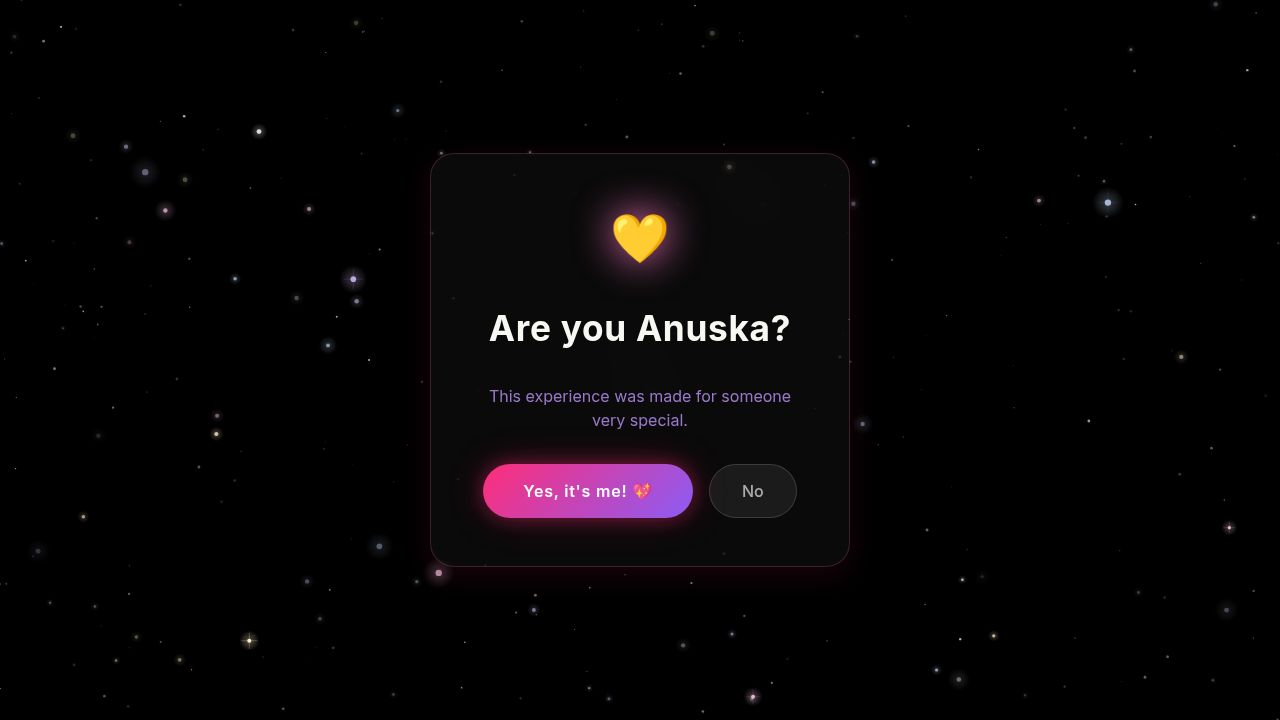
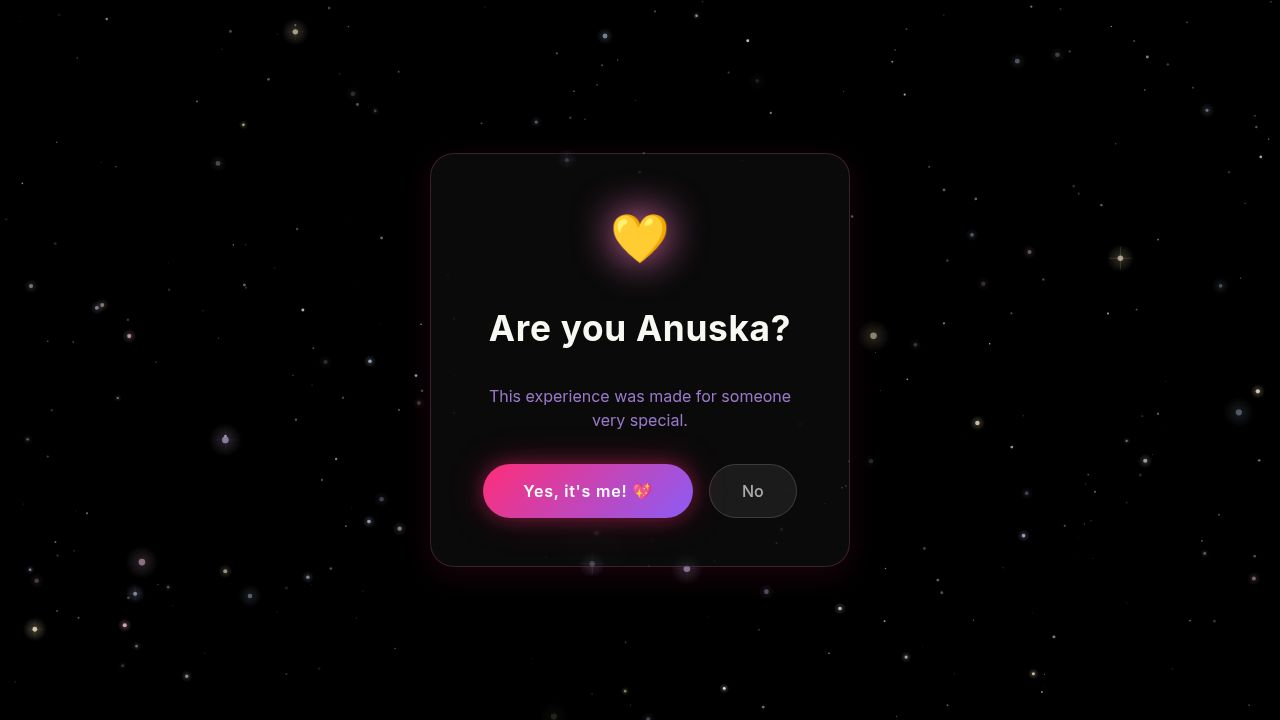
Make confetti effects blast smoothly across the entire page
Replace CSS-based falling confetti with a canvas particle system for a smooth, full-page blast effect.

Replit-Commit-Author: Agent
Replit-Commit-Session-Id: fbf05742-2e0c-4fc2-ba79-36fc6ed894ff
Replit-Commit-Checkpoint-Type: full_checkpoint
Replit-Commit-Event-Id: efaecd7e-2f0a-407e-aad8-4535b4aa56f5
Replit-Commit-Screenshot-Url: https://storage.googleapis.com/screenshot-production-us-central1/f6f6e61f-f649-4f46-82a7-1bd2a364aa1b/fbf05742-2e0c-4fc2-ba79-36fc6ed894ff/j8EUe2c
Replit-Helium-Checkpoint-Created: true

diff --git a/artifacts/birthday-surprise/src/components/ConfettiEffect.tsx b/artifacts/birthday-surprise/src/components/ConfettiEffect.tsx
@@ -1,23 +1,116 @@
-import { useEffect, useRef } from 'react';
+const COLORS = [
+  '#ff79c6','#bd93f9','#8be9fd','#50fa7b',
+  '#ffb86c','#ff5555','#f1fa8c','#ff92d0',
+  '#ffffff','#a5f3fc','#fde68a',
+];
 
-const COLORS = ['#ff79c6', '#bd93f9', '#8be9fd', '#50fa7b', '#ffb86c', '#ff5555', '#f1fa8c'];
+type Particle = {
+  x: number; y: number;
+  vx: number; vy: number;
+  color: string;
+  rot: number; rotV: number;
+  life: number; maxLife: number;
+  w: number; h: number;
+  shape: 'rect' | 'circle' | 'ribbon';
+};
 
-export function spawnConfetti(x?: number, y?: number) {
-  const count = 30;
+function burst(canvas: HTMLCanvasElement, ox: number, oy: number, count: number, spread: number) {
+  const particles: Particle[] = [];
   for (let i = 0; i < count; i++) {
-    const piece = document.createElement('div');
-    piece.className = 'confetti-piece';
-    piece.style.left = `${x ?? Math.random() * 100}vw`;
-    piece.style.top = `${y ?? -20}px`;
-    piece.style.backgroundColor = COLORS[Math.floor(Math.random() * COLORS.length)];
-    piece.style.transform = `rotate(${Math.random() * 360}deg)`;
-    piece.style.animationDuration = `${Math.random() * 2 + 1.5}s`;
-    piece.style.animationDelay = `${Math.random() * 0.5}s`;
-    piece.style.width = `${Math.random() * 8 + 4}px`;
-    piece.style.height = `${Math.random() * 8 + 4}px`;
-    piece.style.borderRadius = Math.random() > 0.5 ? '50%' : '2px';
-    document.body.appendChild(piece);
-    setTimeout(() => piece.remove(), 3000);
+    const angle  = (Math.random() * spread - spread / 2) - Math.PI / 2;
+    const speed  = Math.random() * 14 + 5;
+    const shape  = (['rect','rect','circle','ribbon'] as const)[Math.floor(Math.random()*4)];
+    particles.push({
+      x: ox, y: oy,
+      vx: Math.cos(angle) * speed,
+      vy: Math.sin(angle) * speed,
+      color: COLORS[Math.floor(Math.random() * COLORS.length)],
+      rot: Math.random() * Math.PI * 2,
+      rotV: (Math.random() - 0.5) * 0.3,
+      life: 0,
+      maxLife: 90 + Math.floor(Math.random() * 60),
+      w: shape === 'ribbon' ? Math.random() * 3 + 2 : Math.random() * 9 + 4,
+      h: shape === 'ribbon' ? Math.random() * 18 + 10 : Math.random() * 9 + 4,
+      shape,
+    });
+  }
+
+  const ctx = canvas.getContext('2d')!;
+  let raf = 0;
+
+  const draw = () => {
+    ctx.clearRect(0, 0, canvas.width, canvas.height);
+
+    let alive = false;
+    for (const p of particles) {
+      p.x   += p.vx;
+      p.y   += p.vy;
+      p.vy  += 0.35;
+      p.vx  *= 0.985;
+      p.vy  *= 0.985;
+      p.rot += p.rotV;
+      p.life++;
+
+      const t = p.life / p.maxLife;
+      if (t >= 1) continue;
+      alive = true;
+
+      const alpha = t < 0.7 ? 1 : 1 - (t - 0.7) / 0.3;
+      ctx.save();
+      ctx.translate(p.x, p.y);
+      ctx.rotate(p.rot);
+      ctx.globalAlpha = alpha;
+      ctx.fillStyle = p.color;
+
+      if (p.shape === 'circle') {
+        ctx.beginPath();
+        ctx.arc(0, 0, p.w / 2, 0, Math.PI * 2);
+        ctx.fill();
+      } else {
+        ctx.fillRect(-p.w / 2, -p.h / 2, p.w, p.h);
+      }
+      ctx.restore();
+    }
+
+    if (alive) {
+      raf = requestAnimationFrame(draw);
+    } else {
+      canvas.remove();
+    }
+  };
+
+  raf = requestAnimationFrame(draw);
+  return () => { cancelAnimationFrame(raf); };
+}
+
+export function spawnConfetti() {
+  const canvas = document.createElement('canvas');
+  canvas.width  = window.innerWidth;
+  canvas.height = window.innerHeight;
+  Object.assign(canvas.style, {
+    position: 'fixed', inset: '0', zIndex: '9999',
+    pointerEvents: 'none',
+  });
+  document.body.appendChild(canvas);
+
+  const cx = canvas.width  / 2;
+  const cy = canvas.height / 2;
+  const bx = canvas.width;
+  const by = canvas.height;
+
+  // Multiple burst origins: center + four corners + bottom cannons
+  const origins: [number, number, number, number][] = [
+    [cx,      cy,      120, Math.PI * 2],
+    [0,       by,       60, Math.PI * 1.2],
+    [bx,      by,       60, Math.PI * 1.2],
+    [0,       cy,       40, Math.PI * 1.0],
+    [bx,      cy,       40, Math.PI * 1.0],
+    [cx * 0.5, by * 0.2, 50, Math.PI * 1.5],
+    [cx * 1.5, by * 0.2, 50, Math.PI * 1.5],
+  ];
+
+  for (const [ox, oy, count, spread] of origins) {
+    burst(canvas, ox, oy, count, spread);
   }
 }
 
@@ -27,10 +120,13 @@ export function spawnFloatingHearts(x: number, y: number) {
     const el = document.createElement('div');
     el.className = 'floating-heart';
     el.style.left = `${x + (Math.random() - 0.5) * 100}px`;
-    el.style.top = `${y}px`;
+    el.style.top  = `${y}px`;
     el.style.animationDuration = `${Math.random() * 1.5 + 1}s`;
-    el.style.animationDelay = `${Math.random() * 0.3}s`;
+    el.style.animationDelay   = `${Math.random() * 0.3}s`;
     el.style.fontSize = `${Math.random() * 1 + 1}rem`;
+    el.style.position = 'fixed';
+    el.style.zIndex   = '9999';
+    el.style.pointerEvents = 'none';
     el.textContent = emojis[Math.floor(Math.random() * emojis.length)];
     document.body.appendChild(el);
     setTimeout(() => el.remove(), 2500);
@@ -38,13 +134,6 @@ export function spawnFloatingHearts(x: number, y: number) {
 }
 
 export default function ConfettiEffect({ active }: { active: boolean }) {
-  useEffect(() => {
-    if (!active) return;
-    const interval = setInterval(() => {
-      spawnConfetti(Math.random() * 100);
-    }, 400);
-    return () => clearInterval(interval);
-  }, [active]);
-
+  if (!active) return null;
   return null;
 }

diff --git a/artifacts/birthday-surprise/src/components/BirthdayFinale.tsx b/artifacts/birthday-surprise/src/components/BirthdayFinale.tsx
@@ -27,9 +27,7 @@ export default function BirthdayFinale() {
     const t1 = setTimeout(() => setPhase('heartbeat'), 800);
     const t2 = setTimeout(() => {
       setPhase('gallery');
-      spawnConfetti(25);
-      setTimeout(() => spawnConfetti(50), 400);
-      setTimeout(() => spawnConfetti(75), 800);
+      setTimeout(() => spawnConfetti(), 300);
     }, 2800);
     return () => { clearTimeout(t1); clearTimeout(t2); };
   }, []);
@@ -241,7 +239,7 @@ export default function BirthdayFinale() {
           <button
             className="glow-button"
             style={{ marginTop: 'clamp(4px, 1vh, 12px)', flexShrink: 0 }}
-            onClick={() => { spawnConfetti(25); spawnConfetti(50); spawnConfetti(75); }}
+            onClick={() => spawnConfetti()}
           >
             Celebrate! 🎊
           </button>
